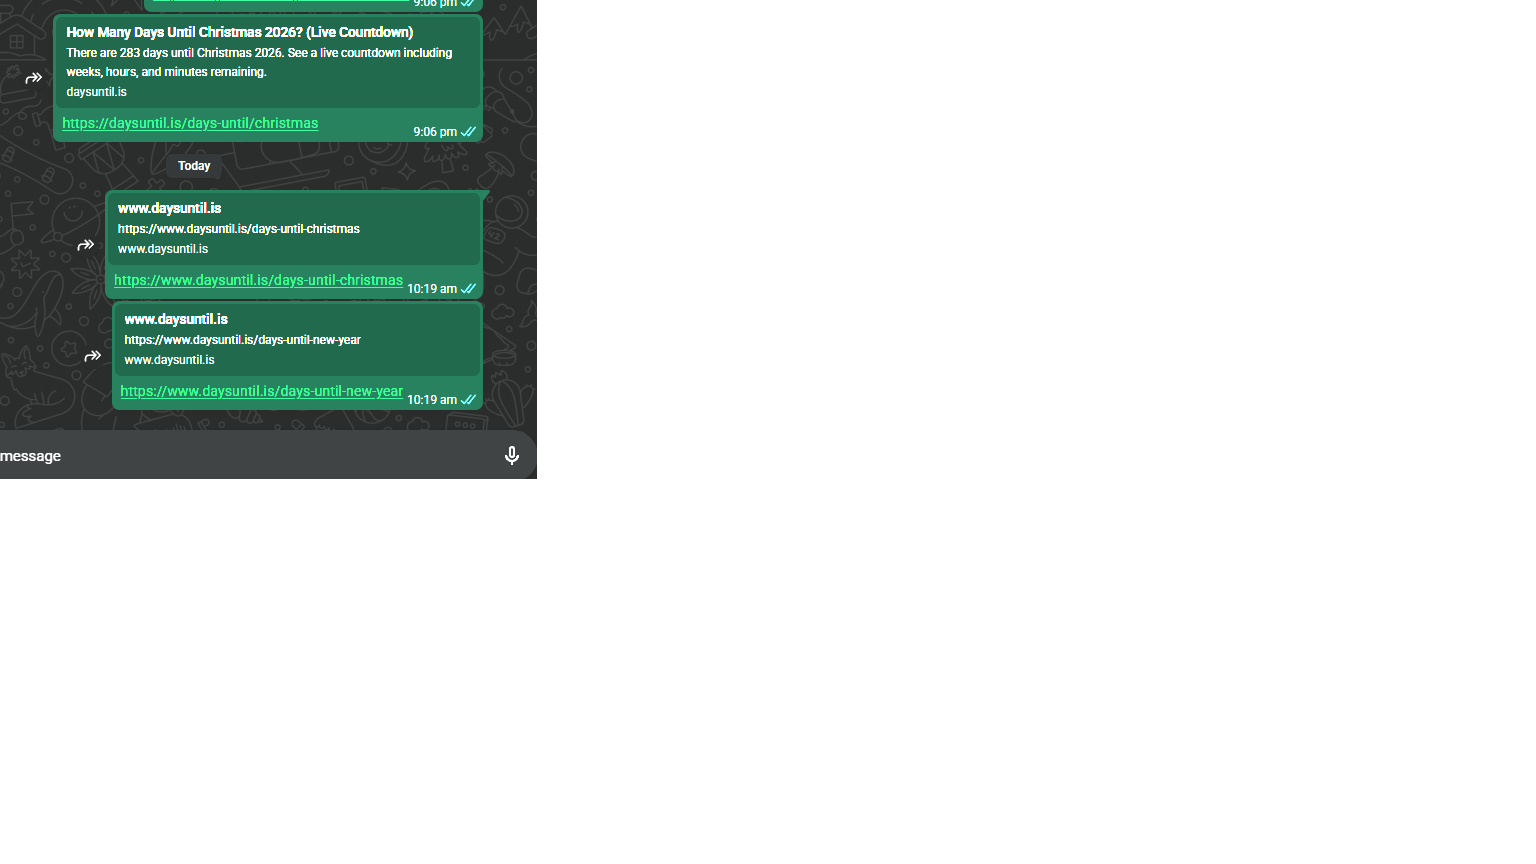
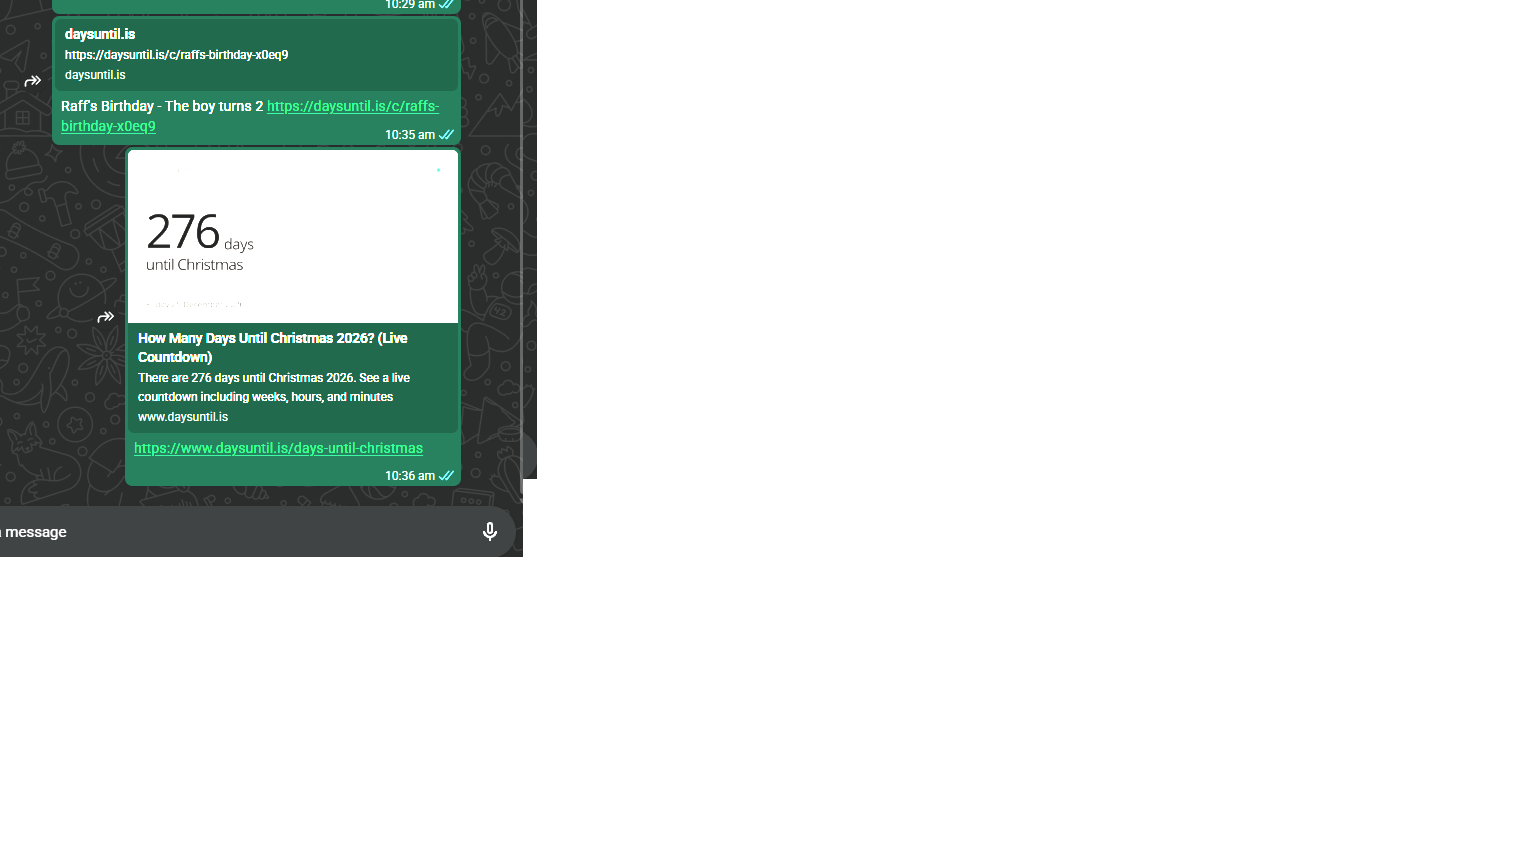
deploy

Changed region(s): [[0.0, 0.0, 0.3438, 0.6562]]

diff --git a/src/lib/ogImage.tsx b/src/lib/ogImage.tsx
@@ -4,6 +4,7 @@ interface CountdownOgImageOptions {
   count: number | string;
   label: string;
   footer: string;
+  description?: string;
 }
 
 export const ogImageSize = {
@@ -17,6 +18,7 @@ export function createCountdownOgImage({
   count,
   label,
   footer,
+  description,
 }: CountdownOgImageOptions): ImageResponse {
   return new ImageResponse(
     (
@@ -114,6 +116,21 @@ export function createCountdownOgImage({
           >
             {`until ${label}`}
           </div>
+          {description ? (
+            <div
+              style={{
+                marginTop: 22,
+                fontSize: 30,
+                lineHeight: 1.35,
+                fontWeight: 500,
+                maxWidth: 920,
+                color: "rgba(18,18,18,0.68)",
+                display: "flex",
+              }}
+            >
+              {description}
+            </div>
+          ) : null}
         </div>
         <div
           style={{

diff --git a/src/app/c/[slug]/page.tsx b/src/app/c/[slug]/page.tsx
@@ -29,6 +29,7 @@ export async function generateMetadata({
     count: pageData?.countdown ? String(pageData.countdown.daysRemaining) : "-",
     label: pageData?.record.title ?? "countdown",
     footer: pageData ? formatCustomCountdownDate(pageData.targetDate, "en-GB") : "DaysUntil",
+    description,
   });
   const imageUrl = `${SITE_URL}/api/og/custom?${imageQuery.toString()}`;
 
@@ -45,7 +46,14 @@ export async function generateMetadata({
       url: canonicalUrl,
       siteName: "DaysUntil",
       type: "website",
-      images: [imageUrl],
+      images: [
+        {
+          url: imageUrl,
+          width: 1200,
+          height: 630,
+          alt: title,
+        },
+      ],
     },
     twitter: {
       card: "summary_large_image",

diff --git a/src/app/api/og/custom/route.tsx b/src/app/api/og/custom/route.tsx
@@ -4,19 +4,21 @@ export const runtime = "edge";
 
 export async function GET(request: Request) {
   const url = new URL(request.url);
-  const count = url.searchParams.get("count") ?? "—";
+  const count = url.searchParams.get("count") ?? "-";
   const label = url.searchParams.get("label") ?? "countdown";
   const footer = url.searchParams.get("footer") ?? "DaysUntil";
+  const description = url.searchParams.get("description") ?? "";
 
   try {
     return createCountdownOgImage({
       count,
       label,
       footer,
+      description: description || undefined,
     });
   } catch {
     return createCountdownOgImage({
-      count: "—",
+      count: "-",
       label: "countdown",
       footer: "DaysUntil",
     });
